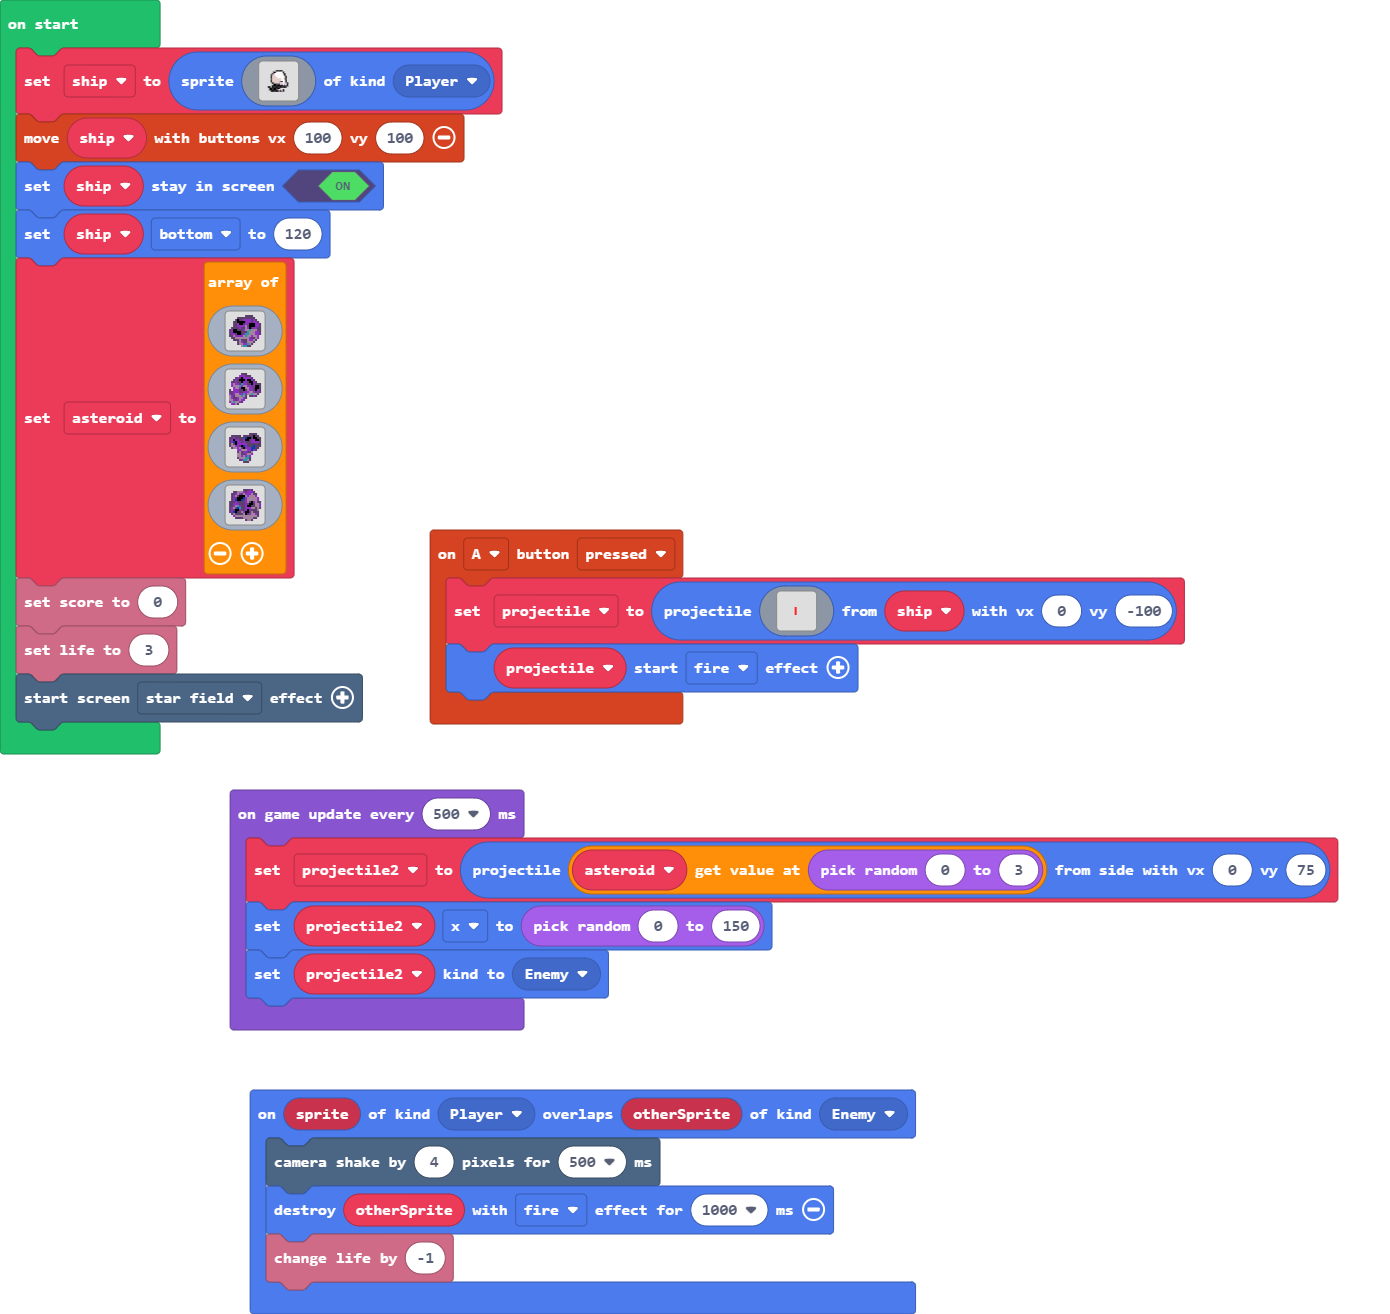
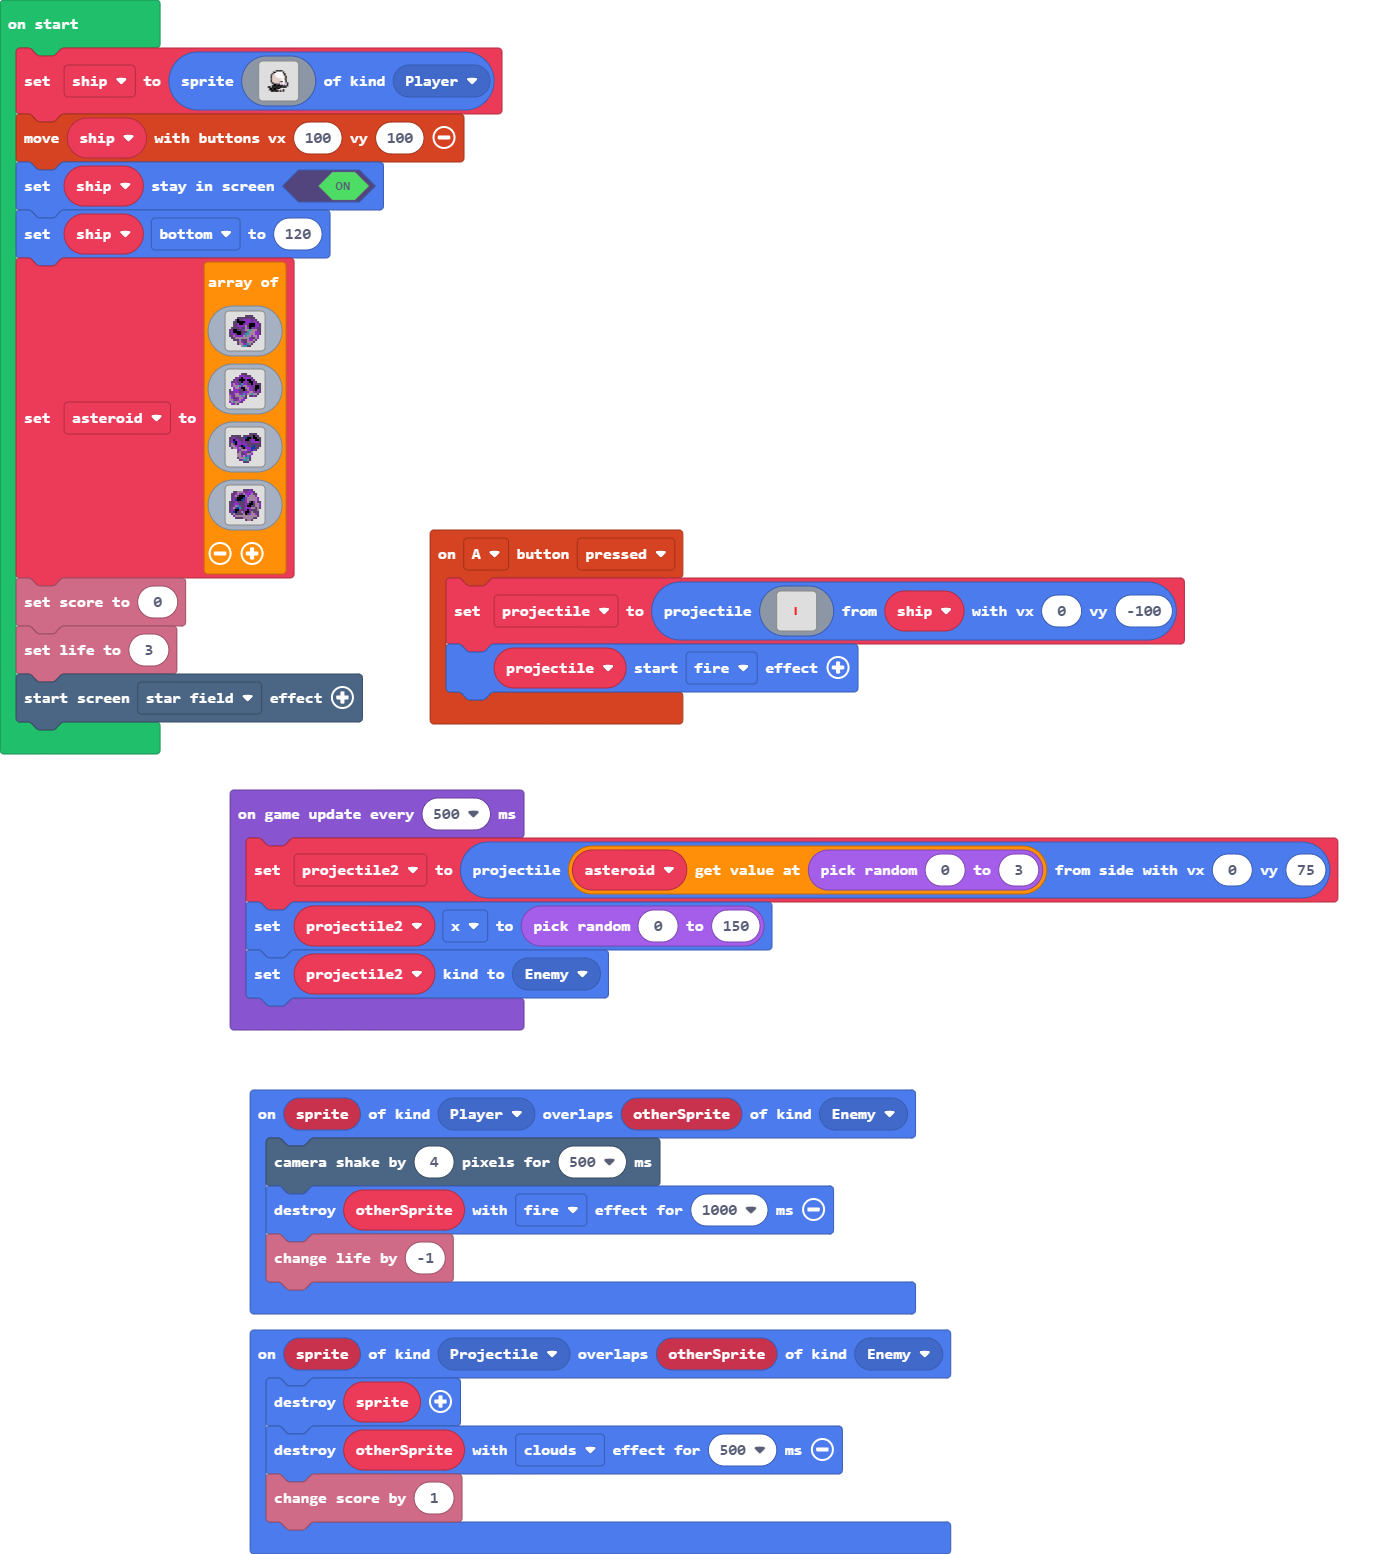
hello

diff --git a/main.ts b/main.ts
@@ -19,6 +19,11 @@ controller.A.onEvent(ControllerButtonEvent.Pressed, function () {
         `, ship, 0, -100)
     projectile.startEffect(effects.fire)
 })
+sprites.onOverlap(SpriteKind.Projectile, SpriteKind.Enemy, function (sprite, otherSprite) {
+    sprite.destroy()
+    otherSprite.destroy(effects.clouds, 500)
+    info.changeScoreBy(1)
+})
 sprites.onOverlap(SpriteKind.Player, SpriteKind.Enemy, function (sprite, otherSprite) {
     scene.cameraShake(4, 500)
     otherSprite.destroy(effects.fire, 1000)
